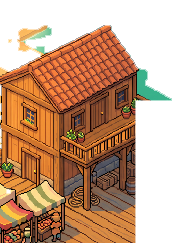
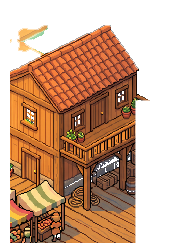
The physical harbor: the grid takes the deck, the paintings take their places
The last shot, built on the one law every failure taught: nothing
walkable is ever a painting. The deck is now authored tile data
(harbor-deck.ts) - a shore quay, the pier arm, the T-head crossbar -
rendered with plank diamonds MINED from the Pro plates themselves
(mine_deck_kit.py, luminance-normalized variants), with edge skirts,
pilings standing in the sea, foam at their feet, rope bollards on the
rim and lit lamps down the run. The painted look survives; the geometry
underneath is the engine's own.

Walkability and collision are tile membership, nothing else: a deck
tile says yes, a sea tile says no, a footprint tile says no. Proven
deterministically - deck ok, open water refused, the hall's footprint
refused, a lamp tile refused. The hand-fitted quads and circles are
gone from the deck entirely. Structures stand as REGISTERED objects
with tile footprints: the harbormaster hall, the market stalls, the
beacon tower, each fringe-cleaned and seated on its tiles, Thor
sorting behind and in front of them by row. Thor's ship berths at the
T-head's seaward face on her moor lines; two painted hulls ride the
swell along the arm; the breakwater mole and its lighthouse frame the
basin as pure scenery, the one place a painting is still allowed to be
one - in the water, where nobody walks.

A warp hook (__warp) joins the probe for deterministic proof under a
throttled browser. The old plate mounts, the connector decal and the
[…]

diff --git a/src/game/island/IslandMapIso.tsx b/src/game/island/IslandMapIso.tsx
@@ -7,6 +7,7 @@ import {
 import { CX, CY, coastDs, coastR, shelfW, lagoonK, cliffK, setSkeleton, CHANNEL, lavaDist, LAVA, MOUTH_L, MOUTH_R } from './terrain'
 import { coneLvl, coneBand, coneH, gullyK, craterK, coneLit, stripeK } from './volcano'
 import { PLAZA, PLAZA_R, GROVES, HARBOR, harborAt, pathD, coveNotchK, vegK, clearingK, SHADOW, initHubLayout, crossingD, riverD, RIVER, FALLS, FORD, STELES, TONGUE, TIDEPOOLS, WEST_OVERLOOK } from './hub-layout'
+import { DECK_TILES, DECK_SET, DECK_LIFT, DECK_OBJECTS, DECK_LAMPS, BLOCKED, BERTH_SHIP, MOOR_BOATS, deckKey } from './harbor-deck'
 import { reportIslandAudit } from './island-audit'
 import { headField, inHeadBBox } from './heads'
 
@@ -2791,100 +2792,153 @@ export default function IslandMapIso() {
             // crop origin screen 520,140 -> world px 2045,3324). The overlay
             // holds only painted-changed pixels: structures, foam, reflections.
             // The sea animates around it; sand and water under it are live.
+            // ---- THE PHYSICAL HARBOR: the grid owns the deck. Every walkable
+            // tile is authored data (harbor-deck.ts), rendered with kit tiles
+            // MINED from the Pro plates — the painted look on engine truth.
+            // Objects are registered footprints; collision is tile membership;
+            // nothing walkable is a painting.
             if (PLATE) {
               try {
-                // THE DECOMPOSED HARBOR — the plates are cut into 13 per-object
-                // sprites (scripts/cut_plates.py -> harbor-objects.json): boats
-                // and verticals as semantic objects at their feet row, decks as
-                // depth bands. Thor's row z interleaves BETWEEN objects — the
-                // monolith could never let him stand on a deck.
-                const HOBJ: { file: string; x: number; y: number; row: number; kind: string; baseY: number }[] =
-                  (await import('./harbor-objects.json')).default
-                for (const ob of HOBJ) {
-                  // v2: the surface/face z law — surfaces cut low (Thor stands
-                  // over), front faces at their own bottom row (front his feet)
-                  const t: Texture = await Assets.load(`/art/island/harbor/obj/${ob.file}.png?v=2`)
+                const kit = async (n: string) => {
+                  // v4: stalls restored un-erased (the cool-pass ate its shaded
+                  // body and left the awning floating)
+                  const t: Texture = await Assets.load(`/art/island/harbor/${n}.png?v=4`)
                   t.source.scaleMode = 'nearest'
+                  return t
+                }
+                const tops = await Promise.all([1, 2, 3, 4, 5].map((i) => kit(`kit/deck-top-${i}`)))
+                const faces = await Promise.all([0, 1, 2].map((i) => kit(`kit/edge-face-${i}`)))
+                const pilings = await Promise.all([0, 1, 2].map((i) => kit(`kit/piling-${i}`)))
+                const bollardT = await kit('bollard-b')
+                const lampT = await kit('lamp-v4')
+                // deck tiles: top diamond + exposed front skirt + pilings + foam
+                for (const [dtx, dty] of DECK_TILES) {
+                  const bx2 = isoX(dtx, dty), by2 = isoY(dtx, dty) + GY - DECK_LIFT
+                  const row = dtx + dty
+                  const top = new Sprite(tops[Math.floor(hash(dtx, dty) * tops.length)])
+                  top.anchor.set(0.5, 0.5)
+                  top.position.set(bx2, by2)
+                  top.zIndex = row * 4000 + 300
+                  world.addChild(top)
+                  const openE = !DECK_SET.has(deckKey(dtx + 1, dty))
+                  const openS = !DECK_SET.has(deckKey(dtx, dty + 1))
+                  if (openE || openS) {
+                    const face = new Sprite(faces[Math.floor(hash(dty, dtx) * faces.length)])
+                    face.anchor.set(0.5, 0)
+                    face.position.set(bx2, by2 + 8)
+                    face.zIndex = row * 4000 + 320
+                    world.addChild(face)
+                    // pilings + foam only where the deck stands in the sea
+                    if (dsAt(dtx, dty) < 0.4 && hash(dtx * 3, dty * 7) > 0.4) {
+                      const pil = new Sprite(pilings[Math.floor(hash(dtx * 5, dty) * pilings.length)])
+                      pil.anchor.set(0.5, 0)
+                      pil.position.set(bx2, by2 + 22)
+                      pil.zIndex = row * 4000 + 315
+                      world.addChild(pil)
+                      const fmp = new Sprite(foamTex); fmp.anchor.set(0.5, 0.5)
+                      fmp.width = 34; fmp.height = 12; fmp.alpha = 0.42
+                      fmp.position.set(bx2, by2 + 22 + 68)
+                      fmp.zIndex = row * 4000 + 314
+                      world.addChild(fmp)
+                    }
+                    // rim bollards at rhythm (never on lamp tiles)
+                    if ((dtx + dty) % 2 === 0 && !DECK_LAMPS.some(([lx2, ly2]) => lx2 === dtx && ly2 === dty)) {
+                      const bol = new Sprite(bollardT)
+                      bol.anchor.set(0.5, 1)
+                      bol.scale.set(0.5)
+                      bol.position.set(bx2 + (openE ? 18 : -18), by2 + (openE ? 10 : 10))
+                      bol.zIndex = row * 4000 + 1250
+                      world.addChild(bol)
+                    }
+                  }
+                }
+                // registered objects standing on the deck
+                for (const ob of DECK_OBJECTS) {
+                  const t = await kit(ob.file)
                   const sp = new Sprite(t)
-                  sp.position.set(ob.x, ob.y)
-                  sp.zIndex = ob.row * 4000 + 900
+                  sp.anchor.set(0.5, 1)
+                  const cxo = ob.tile[0] + ob.foot[0] / 2 - 0.5, cyo = ob.tile[1] + ob.foot[1] / 2 - 0.5
+                  sp.position.set(isoX(cxo, cyo) + ob.ax, isoY(cxo, cyo) + GY - DECK_LIFT + 16 + ob.ay)
+                  sp.zIndex = (ob.tile[0] + ob.foot[0] - 1 + ob.tile[1] + ob.foot[1] - 1) * 4000 + 1200
                   world.addChild(sp)
-                  // painted hulls ride the same engine swell as every boat
-                  if (ob.kind === 'hull') bobs.push({ sp, y0: ob.y, w: 0.5, ph: hash(ob.x, ob.y) * 6.3 })
                 }
-                // the LIGHTHOUSE on the mole's head — the traditional-asset
-                // blend: a map object seated on the painted stone platform
-                const lhT: Texture = await Assets.load('/art/island/harbor/lighthouse.png?v=1')
-                lhT.source.scaleMode = 'nearest'
-                const lh = new Sprite(lhT); lh.anchor.set(0.5, 1)
-                lh.position.set(2383 + 415, 3700 + 232)
-                lh.zIndex = 254 * 4000 + 950
-                world.addChild(lh)
-                // the CONNECTOR decal — in-context sand walk tying the market
-                // deck to the port block; ground layer, under Thor's band
-                const tc: Texture = await Assets.load('/art/island/harbor/conn-sand.png?v=1')
-                tc.source.scaleMode = 'nearest'
-                const pc = new Sprite(tc)
-                pc.position.set(2081, 3284)
-                pc.zIndex = 207 * 4000 + 200
-                world.addChild(pc)
-                // THOR'S SHIP at the promenade berth — the hero 16-view rigger
-                // standing off the deep-water face, bobbing on the engine swell
-                const shipT2: Texture = await Assets.load('/art/intro/port/ship16/v1.png')
-                shipT2.source.scaleMode = 'nearest'
-                const shSp = new Sprite(shipT2); shSp.anchor.set(0.5, 0.86)
-                shSp.position.set(2452, 3184)
-                shSp.zIndex = 199 * 4000 + 900
-                const shRf = new Sprite(shadTex); shRf.anchor.set(0.5, 0.5)
-                shRf.width = shipT2.width * 0.82; shRf.height = 30; shRf.alpha = 0.5; shRf.tint = 0x06202a
-                shRf.position.set(2452, 3191); shRf.zIndex = 199 * 4000 + 600
-                world.addChild(shRf)
-                const shFm = new Sprite(foamTex); shFm.anchor.set(0.5, 0.5)
-                shFm.width = shipT2.width; shFm.height = 30; shFm.alpha = 0.6
-                shFm.position.set(2452, 3186); shFm.zIndex = 199 * 4000 + 602
-                world.addChild(shFm)
-                world.addChild(shSp)
-                bobs.push({ sp: shSp, y0: 3184, w: 0.45, ph: 1.7 })
-                // MOOR LINES: two taut lines from her bow and stern down to
-                // the promenade berth bollards — the physical tie that sells it
-                for (const [ax, ay, bx4, by4] of [
-                  [2436, 3178, 2352, 3272],
-                  [2492, 3196, 2412, 3290],
-                ] as [number, number, number, number][]) {
-                  const line = new Sprite(Texture.WHITE)
-                  line.anchor.set(0, 0.5)
-                  line.width = Math.hypot(bx4 - ax, by4 - ay); line.height = 2
-                  line.tint = 0x3e2c18; line.alpha = 0.85
-                  line.position.set(ax, ay)
-                  line.rotation = Math.atan2(by4 - ay, bx4 - ax)
-                  line.zIndex = 210 * 4000 + 940
-                  world.addChild(line)
-                }
-                // LANTERN GLOW — additive warm halos breathing over every
-                // painted lamp (world px measured off the live composite)
-                const GLOWS: [number, number, number][] = [
-                  [2160, 3499, 22], [2223, 3439, 22], [2415, 3492, 24],
-                  [2567, 3512, 26], [2533, 3619, 22], [2637, 3688, 22],
-                  [2804, 3792, 32], [2087, 3292, 20], [2373, 3292, 20],
-                ]
+                // rim lamps + breathing glow
                 const glowTex = radial(64, [[0, 'rgba(255,196,112,0.9)'], [0.5, 'rgba(255,164,72,0.32)'], [1, 'rgba(255,164,72,0)']])
                 const glows: { g: Sprite; a0: number; ph: number }[] = []
-                for (const [gx, gy, gr] of GLOWS) {
+                for (const [lx2, ly2] of DECK_LAMPS) {
+                  const bx2 = isoX(lx2, ly2), by2 = isoY(lx2, ly2) + GY - DECK_LIFT + 12
+                  const lamp = new Sprite(lampT)
+                  lamp.anchor.set(0.5, 1)
+                  lamp.scale.set(0.62)
+                  lamp.position.set(bx2, by2)
+                  lamp.zIndex = (lx2 + ly2) * 4000 + 1200
+                  world.addChild(lamp)
                   const g = new Sprite(glowTex)
                   g.anchor.set(0.5, 0.5)
-                  g.width = gr * 2; g.height = gr * 1.4
+                  g.width = 46; g.height = 32
                   g.tint = 0xffb054; g.alpha = 0.34
                   g.blendMode = 'add'
-                  g.position.set(gx, gy)
+                  g.position.set(bx2, by2 - lampT.height * 0.62 + 10)
                   g.zIndex = 3_000_000 + 10
                   world.addChild(g)
-                  glows.push({ g, a0: 0.34, ph: hash(gx, gy) * 6.3 })
+                  glows.push({ g, a0: 0.34, ph: hash(lx2, ly2) * 6.3 })
                 }
                 app.ticker.add(() => {
                   const t = performance.now() / 1000
                   for (const gl of glows) gl.g.alpha = gl.a0 + Math.sin(t * 1.7 + gl.ph) * 0.07
                 })
-              } catch { /* plate art absent */ }
+                // SCENERY (never walkable, physics-free): the breakwater mole
+                // plate + the lighthouse standing in open water
+                const moleT = await kit('plate-3')
+                const mole = new Sprite(moleT)
+                mole.position.set(2383, 3700)
+                mole.zIndex = 254 * 4000 + 900
+                world.addChild(mole)
+                const lh = new Sprite(await kit('lighthouse'))
+                lh.anchor.set(0.5, 1)
+                lh.position.set(2383 + 415, 3700 + 232)
+                lh.zIndex = 254 * 4000 + 950
+                world.addChild(lh)
+                // THOR'S SHIP along the T-head's seaward face, on her lines
+                const shipT2: Texture = await Assets.load('/art/intro/port/ship16/v1.png')
+                shipT2.source.scaleMode = 'nearest'
+                const sbx = isoX(BERTH_SHIP[0], BERTH_SHIP[1]), sby = isoY(BERTH_SHIP[0], BERTH_SHIP[1]) + GY
+                const shRf = new Sprite(shadTex); shRf.anchor.set(0.5, 0.5)
+                shRf.width = shipT2.width * 0.82; shRf.height = 30; shRf.alpha = 0.5; shRf.tint = 0x06202a
+                shRf.position.set(sbx, sby + 7); shRf.zIndex = Math.floor(BERTH_SHIP[0] + BERTH_SHIP[1]) * 4000 + 600
+                world.addChild(shRf)
+                const shFm = new Sprite(foamTex); shFm.anchor.set(0.5, 0.5)
+                shFm.width = shipT2.width; shFm.height = 30; shFm.alpha = 0.6
+                shFm.position.set(sbx, sby + 2); shFm.zIndex = Math.floor(BERTH_SHIP[0] + BERTH_SHIP[1]) * 4000 + 602
+                world.addChild(shFm)
+                const shSp = new Sprite(shipT2); shSp.anchor.set(0.5, 0.86)
+                shSp.position.set(sbx, sby)
+                shSp.zIndex = Math.floor(BERTH_SHIP[0] + BERTH_SHIP[1]) * 4000 + 900
+                world.addChild(shSp)
+                bobs.push({ sp: shSp, y0: sby, w: 0.45, ph: 1.7 })
+                for (const [mx, my] of [[161.8, 73.0], [161.8, 75.6]] as [number, number][]) {
+                  const ax2 = isoX(mx, my), ay2 = isoY(mx, my) + GY - DECK_LIFT + 4
+                  const line = new Sprite(Texture.WHITE)
+                  line.anchor.set(0, 0.5)
+                  line.width = Math.hypot(sbx - 30 - ax2, sby - 26 - ay2); line.height = 2
+                  line.tint = 0x3e2c18; line.alpha = 0.85
+                  line.position.set(ax2, ay2)
+                  line.rotation = Math.atan2(sby - 26 - ay2, sbx - 30 - ax2)
+                  line.zIndex = Math.floor(mx + my) * 4000 + 1400
+                  world.addChild(line)
+                }
+                // working boats at the arm's south face (painted hull bobbing)
+                const boatT = await kit('obj/p1-boat')
+                for (const [mbx, mby] of MOOR_BOATS) {
+                  const b = new Sprite(boatT)
+                  b.anchor.set(0.5, 0.8)
+                  const bx3 = isoX(mbx, mby), by3 = isoY(mbx, mby) + GY
+                  b.position.set(bx3, by3)
+                  b.zIndex = Math.floor(mbx + mby) * 4000 + 900
+                  world.addChild(b)
+                  bobs.push({ sp: b, y0: by3, w: 0.5, ph: hash(mbx, mby) * 6.3 })
+                }
+              } catch (err) { console.error('[harbor] failed', err) }
             }
             if (SCRATCH && !PLATE && !NOPORT) {
               const piece = async (file: string, at: [number, number], o: { legs?: number; foamW?: number; z?: number } = {}) => {
@@ -3983,35 +4037,19 @@ export default function IslandMapIso() {
           walkT[d] = await Promise.all([0, 1, 2, 3, 4, 5].map((i) => Assets.load(`/art/characters/thor/walk/${d}/${i}.png`)))
           for (const t of walkT[d]) t.source.scaleMode = 'nearest'
         }))
-        // the harbor decks: world-px quads + surface lift (measured live)
-        const DECKS: { q: [number, number][]; lift: number }[] = [
-          { q: [[2013, 3308], [2205, 3245], [2393, 3302], [2200, 3370]], lift: 26 },  // market deck
-          { q: [[2105, 3600], [2300, 3540], [2495, 3620], [2295, 3690]], lift: 22 },  // port deck
-          { q: [[2065, 3480], [2145, 3442], [2255, 3556], [2170, 3602]], lift: 22 },  // boardwalk
-          // the walkable band = the painted plank TOP, inset off both rims —
-          // on the rim line Thor read as standing on the rope rail, floating
-          // west corners pushed onto the port deck's SE corner — without the
-          // overlap a dead wedge sat between the two quads and blocked the walk
-          { q: [[2445, 3625], [2470, 3598], [2734, 3762], [2706, 3790]], lift: 6 },   // jetty
-        ]
-        const inQuad = (px: number, py: number, q: [number, number][]) => {
-          let inside = false
-          for (let i = 0, j = q.length - 1; i < q.length; j = i++) {
-            const [xi, yi] = q[i], [xj, yj] = q[j]
-            if ((yi > py) !== (yj > py) && px < ((xj - xi) * (py - yi)) / (yj - yi) + xi) inside = !inside
-          }
-          return inside
-        }
-        // structure colliders (world px, circles at the feet)
+        // GRID TRUTH: deck membership and footprint blocks are tile data
+        // (harbor-deck.ts) — no quads, no fitted circles on the deck. The
+        // water rule itself is the rim collision: stepping off an exposed
+        // edge lands on a sea tile and the sea says no.
         const COLL: [number, number, number][] = [
-          [2272, 3580, 40], [2140, 3595, 28], [2420, 3650, 15],   // hall, stalls, beacon tower
-          [2087, 3288, 26], [2160, 3268, 26], [2187, 3258, 12],   // market stalls, crane
-          [2798, 3928, 18], [2540, 4010, 76], [2690, 3952, 56],   // lighthouse, mole rocks
-          [2345, 3740, 30], [2452, 3184, 60],                     // moored boat, hero ship
+          [2798, 3928, 18], [2540, 4010, 76], [2690, 3952, 56],   // lighthouse + mole rocks (scenery)
         ]
         const surfAt = (tx: number, ty: number): { ok: boolean; lift: number } => {
+          const rtx = Math.round(tx), rty = Math.round(ty)
+          const k = deckKey(rtx, rty)
+          if (BLOCKED.has(k)) return { ok: false, lift: 0 }
+          if (DECK_SET.has(k)) return { ok: true, lift: DECK_LIFT }
           const fx = isoX(tx, ty), fy = isoY(tx, ty) + GYG
-          for (const dk of DECKS) if (inQuad(fx, fy, dk.q)) return { ok: true, lift: dk.lift }
           for (const [cx2, cy2, cr] of COLL) if (Math.hypot(fx - cx2, fy - cy2) < cr) return { ok: false, lift: 0 }
           if (dsAt(tx, ty) < 0.4) return { ok: false, lift: 0 }                       // sea
           if (lavaDist(tx, ty) < 1.5 && crossingD(tx, ty) > 2.2) return { ok: false, lift: 0 }
@@ -4022,17 +4060,17 @@ export default function IslandMapIso() {
           return { ok: true, lift: Math.max(0, il) * STEP }
         }
         ;(window as any).__probe = (tx: number, ty: number) => {
-          const fx = isoX(tx, ty), fy = isoY(tx, ty) + GYG
-          const hits: string[] = []
-          DECKS.forEach((dk, i) => { if (inQuad(fx, fy, dk.q)) hits.push('deck' + i) })
-          COLL.forEach(([cx2, cy2, cr], i) => { if (Math.hypot(fx - cx2, fy - cy2) < cr) hits.push('coll' + i) })
-          return JSON.stringify({ fx: Math.round(fx), fy: Math.round(fy), hits, ok: surfAt(tx, ty) })
+          const rtx = Math.round(tx), rty = Math.round(ty)
+          return JSON.stringify({
+            deck: DECK_SET.has(deckKey(rtx, rty)), blocked: BLOCKED.has(deckKey(rtx, rty)),
+            ds: Number(dsAt(tx, ty).toFixed(2)), ok: surfAt(tx, ty),
+          })
         }
         const keys: Record<string, boolean> = {}
         const kd = (e: KeyboardEvent) => { keys[e.key.toLowerCase()] = true }
         const ku = (e: KeyboardEvent) => { keys[e.key.toLowerCase()] = false }
         window.addEventListener('keydown', kd); window.addEventListener('keyup', ku)
-        const pos = { tx: 140.9, ty: 79.1 }   // open sand south of the hall, clear of every plate
+        const pos = { tx: 141.5, ty: 77 }     // the sand approach west of the quay
         let facing = 'south-east', animT = 0
         const thor = new Sprite(walkT[facing][0])
         thor.anchor.set(0.5, 1)
@@ -4042,6 +4080,13 @@ export default function IslandMapIso() {
         thor.scale.set(1.2)
         world.addChild(thor)
         ;(window as any).__thorSp = thor
+        // test hook: place Thor at a tile (rejects unwalkable targets) — the
+        // proof harness can't rely on realtime keys under a throttled rAF
+        ;(window as any).__warp = (wtx: number, wty: number) => {
+          if (!surfAt(wtx, wty).ok) return 'unwalkable'
+          pos.tx = wtx; pos.ty = wty
+          return 'ok ' + wtx + ',' + wty
+        }
         const SPEED = 3.6
         app.ticker.add((tk) => {
           const dt = Math.min(tk.deltaMS, 50) / 1000
@@ -4057,6 +4102,7 @@ export default function IslandMapIso() {
             if (surfAt(nx, ny).ok) { pos.tx = nx; pos.ty = ny }
             else if (surfAt(nx, pos.ty).ok) { pos.tx = nx }
             else if (surfAt(pos.tx, ny).ok) { pos.ty = ny }
+            else (window as any).__walkDbg = `blocked nx=${nx.toFixed(2)},${ny.toFixed(2)} dt=${dt.toFixed(4)}`
             facing = dirFromAngle(isoX(dx, dy), (dx + dy) * 16)
             animT += dt * 9
           } else animT = 0

diff --git a/src/game/island/harbor-deck.ts b/src/game/island/harbor-deck.ts
@@ -1,0 +1,65 @@
+// THE PHYSICAL HARBOR — tile-space truth for the deck, its objects and its
+// collision. The grid owns every walkable surface: a deck tile IS walkable,
+// a footprint tile IS blocked, an exposed rim IS the sea rule stopping you.
+// The painted look rides on top (kit tiles mined from the Pro plates); the
+// physics never touches a painting.
+
+export const DECK_LIFT = 18            // deck plane above the ground lattice
+
+// ---- the deck plan: a shore QUAY, the T-PIER arm, the T-HEAD berth ----
+// (authored, not derived — this is the harbor's floor plan)
+const rect = (x0: number, y0: number, w: number, h: number) => {
+  const out: [number, number][] = []
+  for (let y = y0; y < y0 + h; y++) for (let x = x0; x < x0 + w; x++) out.push([x, y])
+  return out
+}
+
+export const DECK_TILES: [number, number][] = [
+  ...rect(143, 74, 9, 6),   // the quay: 9x6, west rows on the sand, east over water
+  ...rect(152, 76, 8, 2),   // the pier arm reaching seaward
+  ...rect(160, 72, 2, 10),  // the T-head crossbar: the berth face
+]
+
+export const deckKey = (tx: number, ty: number) => tx + ',' + ty
+export const DECK_SET = new Set(DECK_TILES.map(([x, y]) => deckKey(x, y)))
+
+// ---- objects standing ON the deck: registered footprints ----
+// file = an existing cut sprite in /art/island/harbor/obj (or kit art);
+// tile = the footprint's NW corner; foot = tiles blocked; ax/ay = the
+// sprite's anchor offset in world px from the footprint's base corner.
+export interface DeckObject {
+  key: string
+  file: string
+  tile: [number, number]
+  foot: [number, number]
+  ax: number
+  ay: number
+  hull?: boolean
+}
+
+export const DECK_OBJECTS: DeckObject[] = [
+  // the harbormaster hall anchors the quay's back row (one tile off the
+  // sand rim — at 144 its west wall hung over the beach)
+  { key: 'hall', file: 'obj/p1-hall', tile: [145, 74], foot: [3, 2], ax: -6, ay: 10 },
+  // the market stalls row, mid-quay, lane left in front
+  { key: 'stalls', file: 'obj/p4-stalls', tile: [149, 74], foot: [2, 2], ax: -10, ay: 6 },
+  // the beacon tower holds the quay's seaward corner
+  { key: 'tower', file: 'obj/p1-tower', tile: [151, 78], foot: [1, 1], ax: -24, ay: 8 },
+  // (crane cut dropped — its rect was mostly the neighboring net-rack pixels)
+]
+
+export const BLOCKED = new Set<string>()
+for (const ob of DECK_OBJECTS)
+  for (let dy = 0; dy < ob.foot[1]; dy++)
+    for (let dx = 0; dx < ob.foot[0]; dx++)
+      BLOCKED.add(deckKey(ob.tile[0] + dx, ob.tile[1] + dy))
+
+// ---- rim lamps (lamp-v4 kit art + engine glow) ----
+export const DECK_LAMPS: [number, number][] = [
+  [143, 79], [147, 79], [151, 79], [155, 77], [159, 77], [160, 72], [161, 81],
+]
+for (const [lx, ly] of DECK_LAMPS) BLOCKED.add(deckKey(lx, ly))
+
+// ---- moorings (water-side, engine boats/ship) ----
+export const BERTH_SHIP: [number, number] = [163.4, 73.6]   // ship16 off the T-head's NE face, clear of the lighthouse
+export const MOOR_BOATS: [number, number][] = [[153.5, 79.6], [157.2, 79.4]]
